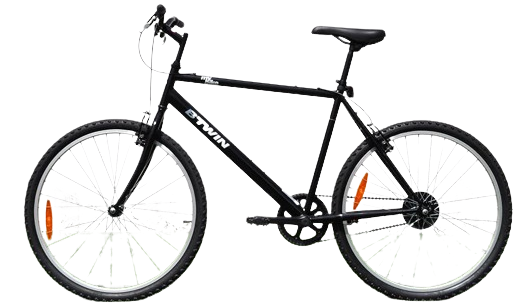
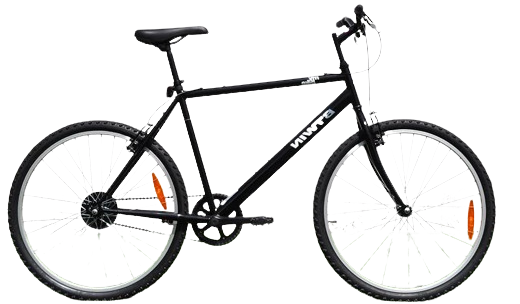
New Design Template

Changed region(s): [[0.0, 0.0, 0.9846, 1.0], [0.2462, 0.7993, 0.2769, 0.8289]]

diff --git a/style.css b/style.css
@@ -39,6 +39,8 @@ body,html {
 }
 
 .navElement {
+    font-weight: 100;
+    margin-left: 20px;
     margin-right: 20px;
     font-size: 15px;
 }
@@ -46,46 +48,42 @@ body,html {
 .page1 {
     height: 85vh;
     position: relative;
+    display: flex;
+    align-items: center;
+    
+    flex-direction: column;
+    text-align: center;
+    position: relative;
 }
 
 .LifeIsCycle {
+    top: 10%;
     font-size: 15vw;
     color: antiquewhite;
     font-family: 'Gill Sans', 'Gill Sans MT', Calibri, 'Trebuchet MS', sans-serif;
     line-height: 12vw;
-    bottom: 0;
-    
+    opacity: 10%;
+    position: absolute;   
 }
 
-.cycContainer{
-    display: flex;
-    width: 100vw;
-    position: absolute;
-    bottom: 0;
-}
+
 
 .cycle {
     bottom: 0;
-    width: 50vw;
+    width: 35vw;
     height: auto;  
+    z-index: 10;
+    transform: rotateZ(-15deg) translateY(5vw);
+    
 }
 
 .page2 {
     height: 100vh;
     display: flex;
     justify-content: center;
-    background-color: #F4CE14;
+    
     overflow: hidden;
     border-radius: 10px;
     min-width: 100vw;
 }
 
-.tagline {
-    margin-top: 5vh;
-    font-size: 15vw;
-    inline-size: none;
-    font-weight: 1000;
-    line-height: 12vw;
-    color: #282829;
-    font-family: Arial, Helvetica, sans-serif;
-}

diff --git a/index.html b/index.html
@@ -10,20 +10,21 @@
     <div class="Main">
         <div class="nav">
             <div class="navA">
-                <h1 class="logo">Cycle.com</h1>
+                <p class="navElement">Buy Now</p>
+                <p class="navElement">About Us</p>
             </div>
             <div class="navB">
-                <h2 class="navElement">Home</h2>
-                <h2 class="navElement">Buy Now</h2>
-                <h2 class="navElement">About Us</h2>
+                
+                <p class="navElement">Buy Now</p>
+                <p class="navElement">About Us</p>
             </div>
         </div>
         <div class="page1">
-            <div class="cycContainer">
-                <p class="LifeIsCycle">Life is <br>a Cycle</p>
+            
+            <p class="LifeIsCycle">Life is <br>a Cycle</p>
                 
-                <img src="./Cycle-removebg-preview.png" class="cycle">
-            </div>    
+            <img src="./Cycle2.png" class="cycle">
+              
         </div>
 
     </div>

diff --git a/script.js b/script.js
@@ -1,4 +1,5 @@
 var tl = gsap.timeline();
+/*
 tl.from(".cycContainer", {
     x: "-100vw",
     
@@ -8,7 +9,7 @@ tl.from(".cycContainer", {
         markers: true,
         scrub: true
     }
-})
+})*/
 
 
 
